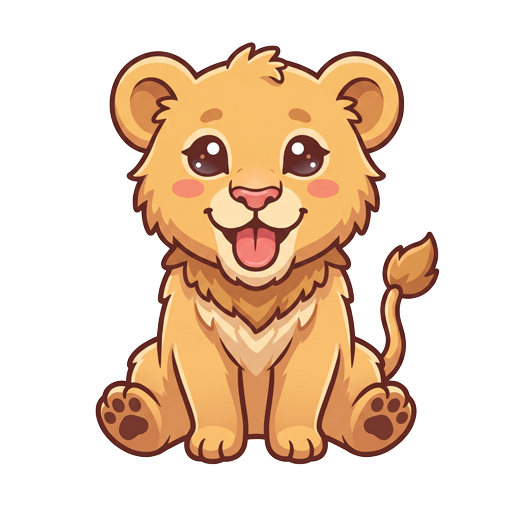
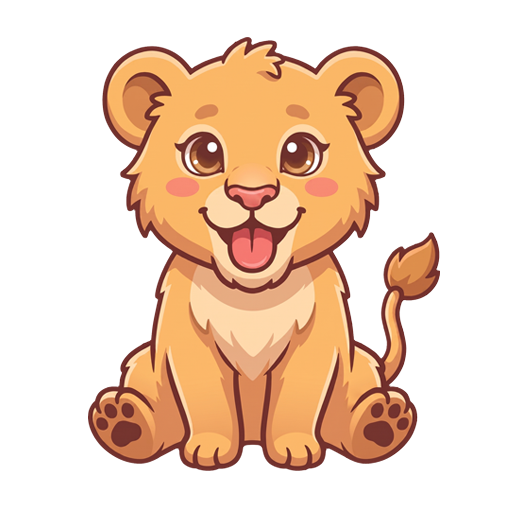
Exclure les simulations des stats/points, corriger le décalage du Lion, sélecteur d'appareils dans le simulateur
Ajoute les images blessées/libération manquantes pour la troupe.

Changed region(s): [[0.1562, 0.0625, 0.875, 0.9375], [0.625, 0.75, 0.6562, 0.8125]]

diff --git a/js/22-compagnon.js b/js/22-compagnon.js
@@ -758,9 +758,16 @@
             larme: [128, 212], zzz: [270, 100], etoiles: [[32, 106, 13], [292, 94, 10]]
         },
         zola: {
+            /* Recalé le 02/09/2026 : le PNG avait été réexporté sans que cette boîte
+               le suive (signalé par l'utilisateur — Zola visiblement décalé par
+               rapport à son ombre dans la grille « Animaux sauvés »). Mesurée au
+               seuil 64 sur le fichier actuel avec `node tools/_alpha-bbox.js
+               Images/Animals/Normal/Lion.png` ; x/y recalculés avec la même formule
+               que `variante()` (x = CENTRE_X - (b.x+b.w/2)*s, y = SOL_Y - (b.y+b.h)*s,
+               s = taille/512) pour rester cohérents avec le reste de la table. */
             fichier: 'Images/Animals/Normal/Lion.png',
-            boite: { x: 85, y: 49, w: 369, h: 417 },
-            x: -17.1, y: 51.7, taille: 336.5,  // contenu 369×417 à 85,49
+            boite: { x: 88, y: 37, w: 352, h: 434 },
+            x: -13.5, y: 48.4, taille: 336.5,  // contenu 352×434 à 88,37
             sol: { cx: 160, rx: 64 },
             larme: [120, 211], zzz: [252, 100], etoiles: [[44, 104, 13], [274, 92, 10]]
         },
@@ -784,6 +791,36 @@
             x: -7.9, y: 53.0, taille: 336.5,   // contenu 357×418 à 77,46
             sol: { cx: 160, rx: 62 },
             larme: [120, 212], zzz: [250, 98], etoiles: [[46, 102, 13], [274, 90, 10]]
+        },
+        nima: {
+            /* Cinquième animal à avoir ses trois états physiques (01/09/2026, après
+               Pilou) — boîte alpha mesurée au seuil 64 sur le fichier RÉEL de chaque
+               dossier (tools/_alpha-bbox.js pour Normal/Blesse/Dead, tools/_bbox-anim.js
+               pour le webp — canvas natif 256×256 ramené à l'échelle 512 comme les
+               autres animés). `taille` du hero calée pour garder la même hauteur
+               apparente que `statique` (336.5, la valeur par défaut de la troupe) :
+               Nima n'a pas de calage vidéo hérité à préserver.
+               ⚠ larme/zzz/etoiles sont une ESTIMATION géométrique (position relative
+               du visage reportée depuis Normal.png, faute de pouvoir lire une frame du
+               webp autrement qu'à l'œil) — à vérifier visuellement dans l'app, pas
+               garanti au pixel comme le reste de la table. */
+            fichier: 'Images/Animals/Gif/chat.webp',
+            // Union des 120 frames — même correction que Babi/Pilou, voir leur `boite`.
+            boite: { x: 48, y: 44, w: 446, h: 402 },
+            x: -38.0, y: 10.5, taille: 400.7,   // calage du hero, réglé sur la frame 1 (278×356 à 114,88)
+            sol: { cx: 160, rx: 57 },
+            larme: [141, 201], zzz: [231, 91], etoiles: [[50, 100, 13], [278, 95, 10]],
+            variantes: {
+                blesse: { fichier: 'Images/Animals/Blesse/Chat_Blesse.png',
+                          boite: { x: 83, y: 44, w: 331, h: 424 } },
+                mort:   { fichier: 'Images/Animals/Dead/Chat.png',
+                          boite: { x: 76, y: 44, w: 416, h: 427 } }
+            },
+            statique: {
+                fichier: 'Images/Animals/Normal/Chat.png',
+                boite: { x: 82, y: 43, w: 331, h: 424 },
+                x: -2.7, y: 51.1, taille: 336.5
+            }
         }
     };
 
@@ -989,6 +1026,7 @@
                 trajet_brusque: (v) => `${v.freinages} freinages. ${v.ecart} de plus que d'habitude.`,
                 defi_valide:    (v) => `Un de fait ! Il t'en reste ${v.reste}.`
             },
+            decor: 'chien',
             dessin:    (e, p, s) => dessinerImage('pilou', e, p, s),
             interieur: (e, p, s) => dessinImageInterieur('pilou', e, p, s)
         },
@@ -1121,6 +1159,37 @@
             },
             dessin:    (e, p, s) => dessinerImage('sam', e, p, s),
             interieur: (e, p, s) => dessinImageInterieur('sam', e, p, s)
+        },
+        /* Sortie d'A_VENIR le 01/09/2026 avec ses quatre états d'image complets —
+           même geste que Pilou le 30/08/2026 (voir sa note). Rang 9, à la suite de
+           Sam : aucun autre compagnon ne recule. */
+        nima: {
+            nom: 'Nima',
+            espece: 'chatte',
+            genre: 'f',
+            accent: '#7EC8C0',
+            /* « Elle vient si elle veut, et c'est déjà beaucoup » — la seule de la
+               troupe qui ne s'engage jamais complètement. Même règle que les
+               autres, jamais de reproche, mais sa réserve est sa marque : elle
+               constate en une phrase courte, et n'en dit jamais plus qu'il ne
+               faut. */
+            decor: 'nima',
+            phrases: {
+                accueil:        () => 'Tiens.',
+                accueil_soir:   () => 'Bonsoir.',
+                destination_ok: () => 'Si tu veux.',
+                objectifs:      (v) => `${v.km} km par semaine depuis ${v.sem} semaines. Pas mal.`,
+                carnet_cale:    (v) => `Tu roules ${v.km} km par semaine. J'ai calé tes défis là-dessus.`,
+                carnet_observe: (v) => `Je te regarde rouler (${v.sem}/${v.total} semaines). Encore ${v.reste} et je saurai.`,
+                clairiere:      (v) => v.pousses === 0
+                                        ? "Rien n'a bougé cette semaine. Ça ne me dérange pas."
+                                        : `${v.pousses} roseau${v.pousses > 1 ? 'x' : ''} sur ${v.total} cette semaine`,
+                trajet_doux:    () => 'Trajet correct. Je ne dirai pas mieux.',
+                trajet_brusque: (v) => `${v.freinages} freinages. ${v.ecart} de plus que d'habitude.`,
+                defi_valide:    (v) => `Un de fait. Il t'en reste ${v.reste}.`
+            },
+            dessin:    (e, p, s) => dessinerImage('nima', e, p, s),
+            interieur: (e, p, s) => dessinImageInterieur('nima', e, p, s)
         }
     };
 
@@ -1132,7 +1201,7 @@
        ne porte que les femelles, ça évite six lignes qui répètent 'm'.
        Seul usage à ce jour : la fenêtre de fin de trajet (js/12), « Sam est
        secouéE ». Elle disait « secoué » pour Kiri et Raya avant cette table. */
-    const FEMELLES = { kiri: true, raya: true, sam: true };
+    const FEMELLES = { kiri: true, raya: true, sam: true, nima: true };
     function genreDe(cle) {
         return (COMPAGNONS[cle] && COMPAGNONS[cle].genre) || (FEMELLES[cle] ? 'f' : 'm');
     }
@@ -1145,9 +1214,7 @@
        usé ne se répare pas en changeant d'espèce. Cette jauge vivra dans le
        module de calcul, indexée par ces clés, jamais ici — ce module reste des
        dessins et des phrases. */
-    const A_VENIR = {
-        nima:  { nom: 'Nima',  espece: 'chatte', silhouette: 'pointue' }
-    };
+    const A_VENIR = {};
 
     /* Une tête grise par espèce. Les oreilles portent tout : ce sont elles, et
        pas le museau, qui font reconnaître un chat d'un chien en vignette. */
@@ -1813,6 +1880,43 @@
         }
     };
 
+    /* --------------------------------------------------------- PILOU */
+    /* ⚡ Fond photo dédié (demande utilisateur, 01/09/2026) : le jardin et sa
+       niche de Pilou, à la place du point d'eau de Babi qu'il empruntait faute
+       de décor propre. Roseaux/lucioles restent ceux du point d'eau — même
+       principe provisoire que Babi et Bulle en attendant une pousse dédiée
+       au jardin (un chien ne fait pas pousser des roseaux, mais rien d'autre
+       n'existe encore pour lui). `fiche()` s'en sert encore pour la clairière
+       SVG, seule `parcours()` lit `photo`. */
+    DECORS.chien = {
+        titre: 'Ton jardin',
+        photo: 'Images/Enviro/Paysage_Liberation_Chien.PNG',
+        ciel: DECORS.point_eau.ciel,
+        lune: DECORS.point_eau.lune,
+        places: CL_SOL_PLACES,
+        fond: DECORS.point_eau.fond,
+        pousse: DECORS.point_eau.pousse,
+        graine: DECORS.point_eau.graine
+    };
+
+    /* --------------------------------------------------------- NIMA */
+    /* Aucune photo dédiée fournie pour l'instant (contrairement à Babi/Bulle/
+       Pilou) : plutôt que d'emprunter celle d'un autre animal — ce qui
+       afficherait un éléphant ou un jardin de chien derrière une chatte
+       libérée, l'erreur déjà corrigée sur Pilou —, ce décor reste sans
+       `photo`. `parcLibre()` retombe alors sur le rendu SVG générique (même
+       principe que Titi/Zola/Kiri/Raya/Sam), roseaux et pousses du point
+       d'eau empruntés en attendant un décor propre. */
+    DECORS.nima = {
+        titre: 'Ton coin tranquille',
+        ciel: DECORS.point_eau.ciel,
+        lune: DECORS.point_eau.lune,
+        places: CL_SOL_PLACES,
+        fond: DECORS.point_eau.fond,
+        pousse: DECORS.point_eau.pousse,
+        graine: DECORS.point_eau.graine
+    };
+
     /* Le rocher éclaire son décor par le CIEL : ses emplacements sont donc en
        haut, et écartés de la bande où le compagnon est posé (x 146 à 220) — une
        étoile derrière Zola serait invisible. */
@@ -2429,7 +2533,10 @@
             + "et reparaît toujours au même endroit, au bord de l'eau, à l'heure fraîche.",
         sam: "Elle a creusé son terrier à la lisière, du côté d'où l'on voit venir. "
            + "Elle sort à la tombée du jour, prend chaque fois un chemin différent pour aller, "
-           + "et rentre toujours par le même — celui qu'elle s'est gardé."
+           + "et rentre toujours par le même — celui qu'elle s'est gardé.",
+        nima: "Elle a choisi sa place en une soirée et n'en a plus changé depuis. "
+            + "Elle passe le plus clair de son temps à ne rien faire de visible, "
+            + "et revient toujours au moment où on ne l'attend plus."
     };
 
     function texteSauve(cle) {

diff --git a/js/12-gamification.js b/js/12-gamification.js
@@ -30,6 +30,20 @@
                à 0 (échec définitif, jusqu'à lundi) dès le premier franchissement. Voir
                surChangementVie() plus bas. */
             { id: 'vie_seuil',     text: `Ne jamais descendre sous ${VIE_SEUIL_SEMAINE}% de vie du compagnon`, unit: 'bool', min: 1, max: 1, step: 1 },
+            /* 'trajet_parfait' et 'trajets_parfaits' (01/09/2026, demande utilisateur) :
+               un trajet compte comme PARFAIT quand la vie n'est JAMAIS descendue pendant
+               toute sa durée (vieMin === 100, pas seulement ≥ VIE_SEUIL_HAUT comme
+               'vie_haute') ET qu'il fait au moins la distance requise. La première est un
+               aller simple (target = km, progress passe de 0 à target en un seul trajet
+               réussi) ; la seconde en exige PLUSIEURS (target = nombre de trajets, et le
+               seuil de km par trajet est un second nombre tiré à part — voir `extra`
+               dans generateWeeklyGoals). Toutes deux sont, comme 'vie_haute', comptées en
+               DISTANCE/NOMBRE DE TRAJETS RÉUSSIS et non en trajets bruts : la garde-fou en
+               tête de fichier reste respecté puisqu'un trajet raté (vie entamée) ne compte
+               jamais, quel que soit le nombre de fois où on le retente. */
+            { id: 'trajet_parfait',   text: 'Terminer un trajet de {v} km avec 100% de vie', unit: 'km', min: 5, max: 20, step: 5 },
+            { id: 'trajets_parfaits', text: 'Terminer {v} fois un trajet de {q} km avec 100% de vie', unit: 'trajets', min: 2, max: 4, step: 1,
+              extra: { placeholder: '{q}', key: 'kmSeuil', min: 15, max: 30, step: 5 } },
         ];
 
         function getWeekId() {
@@ -143,13 +157,24 @@
                 const progress = tpl.id === 'vie_seuil'
                     ? (vieActuelle < VIE_SEUIL_SEMAINE ? 0 : 1)
                     : 0;
+                /* Second nombre tiré à part pour les gabarits à deux variables (ex.
+                   'trajets_parfaits' : {v} trajets de {q} km) — voir `extra` du gabarit. */
+                let text = tpl.text.replace('{v}', target);
+                const extraFields = {};
+                if (tpl.extra) {
+                    const eSteps = Math.floor((tpl.extra.max - tpl.extra.min) / tpl.extra.step);
+                    const extraVal = tpl.extra.min + Math.floor(Math.random() * (eSteps + 1)) * tpl.extra.step;
+                    text = text.replace(tpl.extra.placeholder, extraVal);
+                    extraFields[tpl.extra.key] = extraVal;
+                }
                 return {
                     id: tpl.id,
-                    text: tpl.text.replace('{v}', target),
+                    text,
                     unit: tpl.unit,
                     target,
                     progress,
-                    adaptive: baseline !== null && (tpl.id === 'km_total' || tpl.id === 'km_no_speed')
+                    adaptive: baseline !== null && (tpl.id === 'km_total' || tpl.id === 'km_no_speed'),
+                    ...extraFields
                 };
             });
         }
@@ -187,6 +212,14 @@
                     case 'km_total':      g.progress += distKm; break;
                     case 'score_total':   g.progress += score; break;
                     case 'vie_haute':     if (vieMin >= VIE_SEUIL_HAUT) g.progress += distKm; break;
+                    /* 100% de vie, pas VIE_SEUIL_HAUT : ces deux missions demandent un
+                       trajet où la vie n'a JAMAIS bougé, pas seulement « resté haute ». */
+                    case 'trajet_parfait':
+                        if (vieMin >= 100 && distKm >= g.target) g.progress = g.target;
+                        break;
+                    case 'trajets_parfaits':
+                        if (vieMin >= 100 && distKm >= g.kmSeuil) g.progress += 1;
+                        break;
                 }
                 // Plafonner la progression au target
                 g.progress = Math.min(g.progress, g.target);
@@ -285,7 +318,11 @@
             km_no_speed: '<svg viewBox="0 0 24 24" fill="none" stroke="currentColor" stroke-width="2" stroke-linecap="round" stroke-linejoin="round"><path d="M12 21s7-5 7-10a7 7 0 1 0-14 0c0 5 7 10 7 10Z"/><path d="M9.5 11.5 11.5 14l3.5-4"/></svg>',
             score_total: '<svg viewBox="0 0 24 24" fill="none" stroke="currentColor" stroke-width="2" stroke-linecap="round" stroke-linejoin="round"><path d="M13 2 4.5 13.5H11L10 22l8.5-11.5H12Z"/></svg>',
             vie_haute:   '<svg viewBox="0 0 24 24" fill="none" stroke="currentColor" stroke-width="2" stroke-linecap="round" stroke-linejoin="round"><path d="M12 21s7-5 7-10a7 7 0 1 0-14 0c0 5 7 10 7 10Z"/><path d="M6 14h4l1.5-3 2 5 1.5-2h3"/></svg>',
-            vie_seuil:   '<svg viewBox="0 0 24 24" fill="none" stroke="currentColor" stroke-width="2" stroke-linecap="round" stroke-linejoin="round"><path d="M12 21s7-5 7-10a7 7 0 1 0-14 0c0 5 7 10 7 10Z"/></svg>'
+            vie_seuil:   '<svg viewBox="0 0 24 24" fill="none" stroke="currentColor" stroke-width="2" stroke-linecap="round" stroke-linejoin="round"><path d="M12 21s7-5 7-10a7 7 0 1 0-14 0c0 5 7 10 7 10Z"/></svg>',
+            /* Même cœur que vie_haute/vie_seuil : ces deux missions sont, elles
+               aussi, une question de vie du compagnon — pas de km ou de points. */
+            trajet_parfait:   '<svg viewBox="0 0 24 24" fill="none" stroke="currentColor" stroke-width="2" stroke-linecap="round" stroke-linejoin="round"><path d="M12 21s7-5 7-10a7 7 0 1 0-14 0c0 5 7 10 7 10Z"/></svg>',
+            trajets_parfaits: '<svg viewBox="0 0 24 24" fill="none" stroke="currentColor" stroke-width="2" stroke-linecap="round" stroke-linejoin="round"><path d="M12 21s7-5 7-10a7 7 0 1 0-14 0c0 5 7 10 7 10Z"/></svg>'
         };
 
         function renderWeeklyGoalsPanel() {

diff --git a/js/19-bornes-elec-et-vitesse.js b/js/19-bornes-elec-et-vitesse.js
@@ -1525,18 +1525,21 @@
                 };
             }, 'historique/placesAtStop') || {};
 
-            // Sauvegarder le trajet dans l'historique statistiques
-            saveTripToHistory({
-                distKm: finalDist,
-                score: finalScore,
-                hasSpeeded: drivers.length > 0 ? drivers[0].hasSpeeded : false,
-                durationMin: finalDurationHours * 60,
-                avgSpeedKmh: finalDurationHours > 0 ? finalDist / finalDurationHours : 0,
-                ecoScore:     drivers.length > 0 ? Math.round(drivers[0].ecoScore) : 100,
-                hardBrakings: drivers.length > 0 ? drivers[0].hardBrakings : 0,
-                hardAccels:   drivers.length > 0 ? drivers[0].hardAccels : 0,
-                ..._tripPlaces,
-            });
+            // Sauvegarder le trajet dans l'historique statistiques — jamais pour une simulation :
+            // elle ne roule nulle part, elle n'a rien à archiver comme trajet réel.
+            if (!isSimulationMode) {
+                saveTripToHistory({
+                    distKm: finalDist,
+                    score: finalScore,
+                    hasSpeeded: drivers.length > 0 ? drivers[0].hasSpeeded : false,
+                    durationMin: finalDurationHours * 60,
+                    avgSpeedKmh: finalDurationHours > 0 ? finalDist / finalDurationHours : 0,
+                    ecoScore:     drivers.length > 0 ? Math.round(drivers[0].ecoScore) : 100,
+                    hardBrakings: drivers.length > 0 ? drivers[0].hardBrakings : 0,
+                    hardAccels:   drivers.length > 0 ? drivers[0].hardAccels : 0,
+                    ..._tripPlaces,
+                });
+            }
             _tripPlacesMeta = null;
             stopEcoMotionTracking();
             _routeMaxspeedAnnotations = []; // reset pour éviter données périmées au prochain trajet
@@ -1558,11 +1561,17 @@
                surtout PAS créditer ici sous peine de payer le trajet deux fois. Le coffre
                supprimé, l'inverse est devenu vrai : ne pas créditer ici, c'est ne rien
                créditer du tout, et une conduite parfaite serait le seul cas où rouler ne
-               rapporte rien. La branche a donc disparu avec le bonus. */
+               rapporte rien. La branche a donc disparu avec le bonus.
+               ⚠ EXCLU EN SIMULATION (01/09/2026) : une simulation ne roule pas, elle ne doit
+               donc jamais créditer le profil — sans quoi rejouer « Simulation Salif » en
+               boucle serait une façon gratuite de gonfler son score. */
             const earned = clampTripScore(finalScore);
-            addPointsToActiveProfile(earned);
+            if (!isSimulationMode) addPointsToActiveProfile(earned);
             const statusEl = document.getElementById('status');
-            if (earned > 0) {
+            if (isSimulationMode) {
+                statusEl.innerText = "Simulation terminée 🚗";
+                statusEl.style.color = "#8e44ad";
+            } else if (earned > 0) {
                 statusEl.innerText = "Trajet terminé 🛑";
                 statusEl.style.color = "#ff6b6b";
             } else {
@@ -1636,7 +1645,10 @@
                se poser par-dessus (retirée le 27/08/2026) ; il importe encore : cet appel
                écrit le parcours de l'animal, que la fenêtre d'arrivée vient de lire. */
             const vieMinTrajet = drivers.length > 0 && drivers[0].vieMinTrajet !== undefined ? drivers[0].vieMinTrajet : 100;
-            updateWeeklyGoalsAfterTrip(finalDist, finalScore, isPerfectRun, vieMinTrajet);
+            /* Exclu en simulation, même raison que le crédit de points plus bas :
+               une simulation ne roule pas, ses km ne doivent ni compter dans les
+               missions hebdo ni fausser la baseline km/semaine. */
+            if (!isSimulationMode) updateWeeklyGoalsAfterTrip(finalDist, finalScore, isPerfectRun, vieMinTrajet);
 
             map.easeTo({ bearing: 0, duration: 500 });
 

diff --git a/simulator.html b/simulator.html
@@ -201,7 +201,10 @@
 <body>
 
 <div id="sim-toolbar">
-    <span>📱 SIMULATEUR PIXEL 9A</span>
+    <span>📱 SIMULATEUR</span>
+    <button class="sim-btn active" onclick="setDevice('pixel9a')" id="btn-dev-pixel9a">Pixel 9A</button>
+    <button class="sim-btn" onclick="setDevice('s22')" id="btn-dev-s22">Galaxy S22</button>
+    <button class="sim-btn" onclick="setDevice('s7')" id="btn-dev-s7">Galaxy S7</button>
     <button class="sim-btn active" onclick="setScale(0.5)" id="btn-50">50%</button>
     <button class="sim-btn" onclick="setScale(0.65)" id="btn-65">65%</button>
     <button class="sim-btn" onclick="setScale(0.8)" id="btn-80">80%</button>
@@ -251,18 +254,30 @@
 </div>
 
 <script>
-    // Dimensions exactes Pixel 9A en pixels CSS (densité logique ~2.625x)
-    // Résolution physique : 1080×2424 → CSS : ~412×923px
-    const DEVICE = {
-        portrait:  { w: 412, h: 923 },
-        landscape: { w: 923, h: 412 }
+    // Dimensions en pixels CSS (résolution physique / densité logique du fabricant).
+    const DEVICES = {
+        pixel9a: { label: 'Pixel 9A',   w: 412, h: 923, info: '1080×2424px · 6.3"', notch: true  },
+        s22:     { label: 'Galaxy S22', w: 360, h: 780, info: '1080×2340px · 6.1"', notch: false },
+        s7:      { label: 'Galaxy S7',  w: 360, h: 640, info: '1440×2560px · 5.1"', notch: false }
     };
 
+    let currentDevice = 'pixel9a';
     let currentScale = 0.5;
     let isLandscape = false;
 
     function getDevice() {
-        return isLandscape ? DEVICE.landscape : DEVICE.portrait;
+        const d = DEVICES[currentDevice];
+        return isLandscape ? { w: d.h, h: d.w } : { w: d.w, h: d.h };
+    }
+
+    function setDevice(key) {
+        currentDevice = key;
+        document.querySelectorAll('.sim-btn[id^="btn-dev-"]').forEach(b => b.classList.remove('active'));
+        document.getElementById('btn-dev-' + key).classList.add('active');
+        const d = DEVICES[key];
+        document.getElementById('sim-info').textContent = `${d.label} · ${d.info} · Appuie sur F5 pour recharger l'app`;
+        applyLayout();
+        reloadApp();
     }
 
     function applyLayout() {
@@ -299,7 +314,7 @@
         frame.style.top = '0';
         frame.style.left = '0';
 
-        notch.style.display = isLandscape ? 'none' : 'block';
+        notch.style.display = (!isLandscape && DEVICES[currentDevice].notch) ? 'block' : 'none';
 
         // Ajuster la hauteur du châssis pour le scale
         const scaledH = chassisH * currentScale;

diff --git a/AGENTS.md b/AGENTS.md
@@ -918,6 +918,7 @@ Les sept sont passés des tracés SVG à des PNG dessinés hors de l'app (`Image
 - **`taille: 336.5` est le MÊME pour tous, et c'est voulu** : les sept PNG sont dessinés dans le même carré de 512, donc un facteur commun conserve les tailles RELATIVES voulues par le dessin. La girafe dépasse l'hippo parce qu'elle le dépasse sur la planche, pas parce qu'un chiffre le dit dans le code.
 - **⚠ `tools/verif-cadrage.js` EST DEVENU AVEUGLE** : `getBBox()` sur un `<image>` renvoie le carré complet du PNG, marges comprises. Les sept y ressortent « DEBORDE » **sans déborder réellement** — ne pas recadrer sur la foi de cette sortie. L'outil ne resservira que si un compagnon revient à un tracé SVG.
 - **⚠ LA CASSE DES NOMS DE FICHIER EST SIGNIFIANTE** : Windows ne distingue pas `.PNG` de `.png`, **Android si**. Un chemin qui marche sur le bureau peut rendre l'animal INVISIBLE dans l'APK, sans la moindre erreur. Vaut aussi pour les vidéos.
+- **⚠ UN PNG RÉEXPORTÉ SANS RECALCULER `boite` DÉCALE L'ANIMAL (02/09/2026)** — signalé par l'utilisateur : Zola visiblement décalé par rapport à son ombre au sol dans la grille « Animaux sauvés », alors que le CSS traite tous les animaux à l'identique (`.cpx-vignette`, aucune règle par espèce). `Images/Animals/Normal/Lion.png` avait été modifié sur le disque (poids différent) après que sa `boite` avait été figée dans `IMAGES.zola` — la boîte alpha réelle ne correspondait plus au fichier. Corrigé en remesurant avec `node tools/_alpha-bbox.js Images/Animals/Normal/Lion.png` (seuil 64) puis en recalculant `x`/`y` avec la formule de `variante()` : `x = CENTRE_X - (b.x+b.w/2)*s`, `y = SOL_Y - (b.y+b.h)*s`, `s = taille/512` (`CENTRE_X=160`, `SOL_Y=358`, ligne ~844). **Réflexe à avoir devant tout animal qui paraît décalé** : remesurer sa boîte avant de suspecter le CSS — vérifié sur Babi/Éléphant (fichier inchangé) que la boîte mesurée correspond exactement à celle codée en dur quand les deux sont synchronisés.
 - **Les médias sont rangés par espèce, les clés du code sont des prénoms** — `babi` → `Elephant.PNG` + `Elephant_cage.mp4`, `bulle` → `Hippo_Neutre.PNG` + `Hippo_cage.mp4`. Les deux n'ont aucune raison de coïncider : recopier le nom du disque, ne pas le déduire de la clé.
 - **Les fonctions de tracé SVG (`dessinerBabi`…`dessinerSam`) existent toujours et PLUS AUCUNE n'est appelée** — ~1000 lignes gardées comme référence du gabarit. Leur place est dans `experiments/` ; le déménagement n'est pas fait.
 
